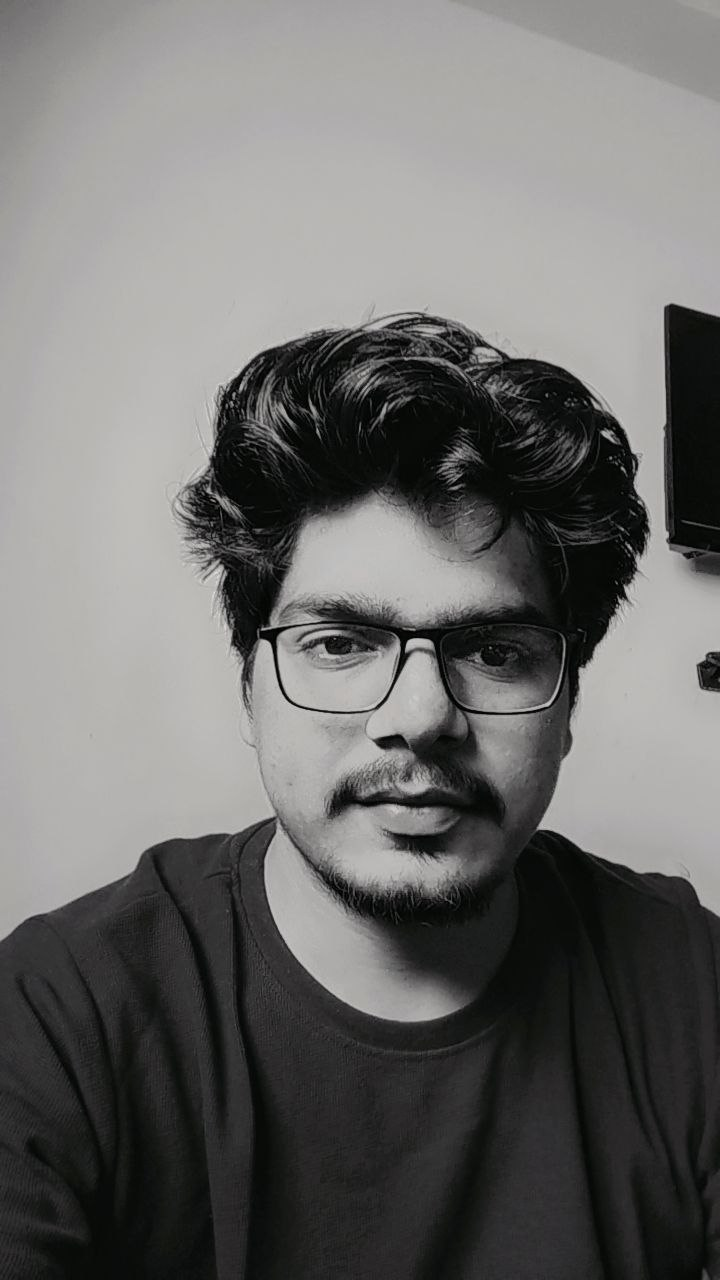
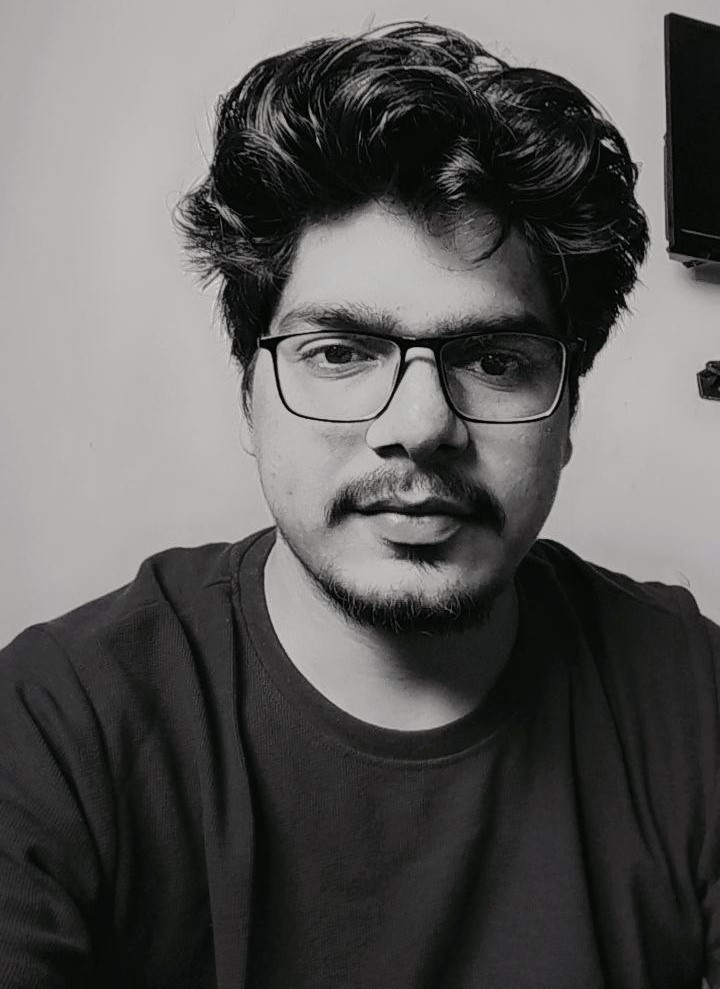
about section

diff --git a/src/pages/About/About.jsx b/src/pages/About/About.jsx
@@ -1,0 +1,59 @@
+import React from "react";
+import "./About.css";
+import profile from "../../assets/profile.jpg";
+
+const About = () => {
+  return (
+    <div className="about-page">
+      <div className="about-page-left">
+        <img src={profile} alt="" />
+      </div>
+      <div className="about-page-right">
+        <div className="about-cards">
+          <Cards
+            icon={"🎯"}
+            heading={"Experience"}
+            subHeading={"2-year"}
+            profession={"Frontend Developer"}
+          />
+          <Cards
+            icon={"🎓"}
+            heading={"Education"}
+            subHeading={"B.tech (Cse)"}
+            profession={"DSMNRU, Lucknow"}
+          />
+        </div>
+        <p>
+          I am a passionate frontend developer with experience in building
+          responsive and interactive web applications using React, HTML, CSS,
+          and JavaScript.
+        </p>
+      </div>
+    </div>
+  );
+};
+
+export default About;
+
+export const Cards = ({ icon, heading, subHeading, profession }) => {
+  return (
+    <div
+      style={{
+        display: "flex",
+        flexDirection: "column",
+        justifyContent: "center",
+        alignItems: "center",
+        // width: "12rem",
+        border: "1px solid #000",
+        borderRadius: "12px",
+        lineHeight: "1px",
+        padding: "4px 44px",
+      }}
+    >
+      <p style={{ fontSize: "22px" }}>{icon}</p>
+      <h3 style={{ margin: "5px", fontSize: "1rem" }}>{heading}</h3>
+      <h4 style={{ margin: "10px", fontSize: "0.8rem" }}>{subHeading}</h4>
+      <p style={{ margin: "10px", fontSize: "1rem" }}>{profession}</p>
+    </div>
+  );
+};

diff --git a/src/pages/About/About.css b/src/pages/About/About.css
@@ -1,0 +1,79 @@
+.about-page {
+  display: flex;
+  /* flex-direction: column; */
+  justify-content: center;
+  align-items: center;
+  height: 100vh;
+  padding: 0px 4rem;
+  /* gap: 1rem; */
+}
+
+.about-page-left {
+  display: flex;
+  justify-content: center;
+  align-items: center;
+  width: 40vw;
+}
+.about-page-left img {
+  width: 220px;
+  height: 280px;
+  align-items: center;
+  border-radius: 15px;
+  /* box-shadow: 0 2px 4px 0 rgba(0, 0, 0, 0.2); */
+  box-shadow: rgba(0, 0, 0, 0.1) 0px 10px 15px -3px,
+    rgba(0, 0, 0, 0.05) 0px 4px 6px -2px;
+}
+
+.about-cards {
+  display: flex;
+  gap: 10px;
+  padding-bottom: 10px;
+}
+
+.about-page-right {
+  display: flex;
+  flex-direction: column;
+  align-items: flex-start;
+  width: 60vw;
+}
+
+@media (max-width: 600px) {
+  .about-page {
+    flex-direction: column;
+    gap: 10px;
+    height: 100vh;
+  }
+
+  .about-page-left img {
+    width: 160px;
+    height: 220px;
+    align-items: center;
+    border-radius: 15px;
+    /* box-shadow: 0 2px 4px 0 rgba(0, 0, 0, 0.2); */
+    box-shadow: rgba(0, 0, 0, 0.1) 0px 10px 15px -3px,
+      rgba(0, 0, 0, 0.05) 0px 4px 6px -2px;
+  }
+
+  .about-page-left {
+    /* display: flex;
+    justify-content: center;
+    align-items: center; */
+    width: 100vw;
+  }
+  .about-page-left img {
+    width: 200px;
+    height: 200px;
+  }
+  .about-page-right {
+    width: 100vw;
+    flex-direction: column-reverse;
+    justify-content: center;align-items: center;
+  }
+  .about-cards {
+    flex-direction: column;
+  }
+  .about-page-right p {
+    text-align: center;
+    padding: 2px 16px;
+  }
+}

diff --git a/src/pages/Home/Home.jsx b/src/pages/Home/Home.jsx
@@ -21,6 +21,7 @@ const Home = () => {
           <button>Download CV</button>
           <button>Contact info</button>
         </div>
+        <div className="social-links"></div>
       </div>
       <div className="home-page-right">
         <img src={profile} alt="" />
